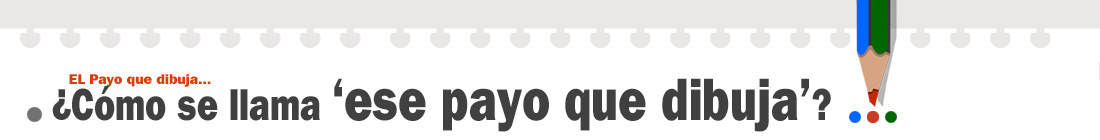
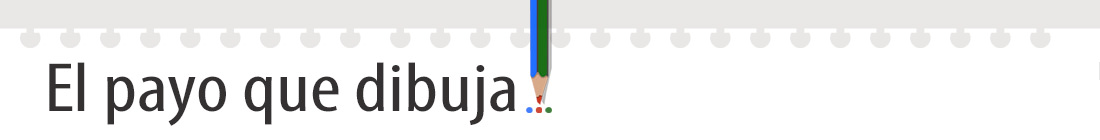
Nuevo menú, sin secciones 'links' y 'humor'

Changed region(s): [[0.0, 0.0, 0.8345, 0.9429]]

diff --git a/index.html b/index.html
@@ -87,23 +87,26 @@ google.load("jquery", "1.2.6");
 
 <!-- CABECERA - COPIAR Y PEGAR EN LAS SIGUIENTES HOJAS -->
   <div id="titulo_web">
+  <!-- MENÚ -->
+    <!-- MENÚ -->
+    <!-- MENÚ -->
+    <!-- MENÚ -->
   <div id="menu_opciones_basicas" class="link-nav-principales">
    <a href="roberto_gutierrez.html" class="link-nav-principales">¿Quién soy?...</a><span class="link-nav-principales">|</span><!--  <a href="faq.html" class="link-nav-principales">Preguntas frecuentes</a> <span class="link-nav-principales">|</span>--><a href="contacto.html" class="link-nav-principales"> Contacta conmigo... </a><a href="contacto.html"><img src="images/twitter/logo-twitter.gif" style="vertical-align:text-bottom; padding-left:550px;" width="24" height="18" alt="" /> </a>
   </div>
  <h1> </h1>
- <!-- ***************************** H2 DESCRIPCIÓN IDÉNTICA EN TODAS LAS PÁGINAS ******************************** -->
+   <!-- ***************************** H2 DESCRIPCIÓN IDÉNTICA EN TODAS LAS PÁGINAS ******************************** -->
 <!-- ***************************** H2 DESCRIPCIÓN IDÉNTICA EN TODAS LAS PÁGINAS ******************************** -->
   <h2>:: Sitio web de <b>Roberto Gutiérrez</b> durante mi etapa como diseñador gráfico en Kale Dor Kayiko</h2>
   </div>
 <div id="arriba"></div>
 <div id="inicio">::<a href="index.html" class="link-nav-secciones"> <strong>Inicio</strong></a> / </div>
-<div id="nuevo"><a href="lo_nuevo.html" class="link-nav-secciones">Lo (+) nuevo | cambios recientes</a> / </div>
-<div id="visita_rapida"><a href="visita-rapida.html" class="link-nav-secciones">Visita rápida</a> /</div>
-<div id="humor">;) <a href="humor.html" class="link-nav-secciones">Humor</a> /</div>
 <div id="kale_dor_kayiko"><a href="kale_dor_kayiko.html" class="link-nav-secciones" style="border:#999 1px solid; padding:5px;">Kale Dor Kayiko</a>&nbsp; /</div>
-<div id="recursos"><a href="links.html" class="link-nav-secciones"> <strong>Links...</strong></a> /</div>
 <div id="merchandising"><strong>Networking</strong>:</div>
 <div id="productos-kaledorkayiko"><a href="proyectos.html" class="link-nav-secciones">Proyectos </a> /</div>
+<div id="visita_rapida"><a href="visita-rapida.html" class="link-nav-secciones">Visita rápida</a> /</div>
+<!-- <div id="humor">;) <a href="humor.html" class="link-nav-secciones">Humor</a> /</div> -->
+<div id="nuevo"><a href="lo_nuevo.html" class="link-nav-secciones">Lo (+) nuevo | cambios recientes</a> / </div>
 <div id="opinion"><a href="opinion.html" class="link-nav-secciones">¿Existe un <strong>pueblo gitano</strong> que no conoces?...</a> /</div>
 <div id="opinion-2"><a href="opinion-2.html" class="link-nav-secciones">Bloc de apuntes:<strong> La madre gitana de Bilbao que 'crakea' la Play</strong> ... </a> /</div>
 <!--
@@ -115,6 +118,10 @@ google.load("jquery", "1.2.6");
 <div id="english-2"><a href="gypsy.html" class="link-nav-secciones">/ Spanish gypsies / The experience of The Basque Country / </a><span><a href="gypsy.html" class="link-nav-secciones"><strong>Are there gipsy people you don't know?</strong></a></span></div>
 <div id="english-3"><a href="gypsy.html" class="link-nav-secciones"><strong>*payo -ya:</strong> <i>Word used by gypsies to refer to a non-gypsy</i></a></div>
 <div id="abajo"></div>
+<!-- FIN DEL MENÚ -->
+<!-- FIN DEL MENÚ -->
+<!-- FIN DEL MENÚ -->
+<!-- FIN DEL MENÚ -->
 <!-- FIN DE LA CABECERA -->
 
 
@@ -238,7 +245,7 @@ que se sienten gitanas y gitanos y quieren que sus hijos e hijas estudien.</p>
 <!-- Fila merchandising título -->
 
 <div id="ideas-que-cambian-el-mundo">
-  <p class="titular-principal"><img src="images/punto.gif" width="15" height="15" alt="" /> Además: Pequeñas ideas que 'cambian el mundo'...</p>
+  <p class="titular-principal"><img src="images/punto.gif" width="15" height="15" alt="" /> ;) Las pequeñas ideas que 'cambian el mundo'...</p>
 </div>
 <!-- Marcapáginas línea presentación -->
 <!-- ***************************** MARCAPÁGINAS ******************************** -->

diff --git a/kale_dor_kayiko.html b/kale_dor_kayiko.html
@@ -58,13 +58,12 @@ padding: 0;
   </div>
 <div id="arriba"></div>
 <div id="inicio">::<a href="index.html" class="link-nav-secciones"> <strong>Inicio</strong></a> / </div>
-<div id="nuevo"><a href="lo_nuevo.html" class="link-nav-secciones">Lo (+) nuevo | cambios recientes</a> / </div>
-<div id="visita_rapida"><a href="visita-rapida.html" class="link-nav-secciones">Visita rápida</a> /</div>
-<div id="humor">;) <a href="humor.html" class="link-nav-secciones">Humor</a> /</div>
 <div id="kale_dor_kayiko"><a href="kale_dor_kayiko.html" class="link-nav-secciones" style="border:#999 1px solid; padding:5px;">Kale Dor Kayiko</a>&nbsp; /</div>
-<div id="recursos"><a href="links.html" class="link-nav-secciones"> <strong>Links...</strong></a> /</div>
 <div id="merchandising"><strong>Networking</strong>:</div>
 <div id="productos-kaledorkayiko"><a href="proyectos.html" class="link-nav-secciones">Proyectos </a> /</div>
+<div id="visita_rapida"><a href="visita-rapida.html" class="link-nav-secciones">Visita rápida</a> /</div>
+<!-- <div id="humor">;) <a href="humor.html" class="link-nav-secciones">Humor</a> /</div> -->
+<div id="nuevo"><a href="lo_nuevo.html" class="link-nav-secciones">Lo (+) nuevo | cambios recientes</a> / </div>
 <div id="opinion"><a href="opinion.html" class="link-nav-secciones">¿Existe un <strong>pueblo gitano</strong> que no conoces?...</a> /</div>
 <div id="opinion-2"><a href="opinion-2.html" class="link-nav-secciones">Bloc de apuntes:<strong> La madre gitana de Bilbao que 'crakea' la Play</strong> ... </a> /</div>
 <!--
